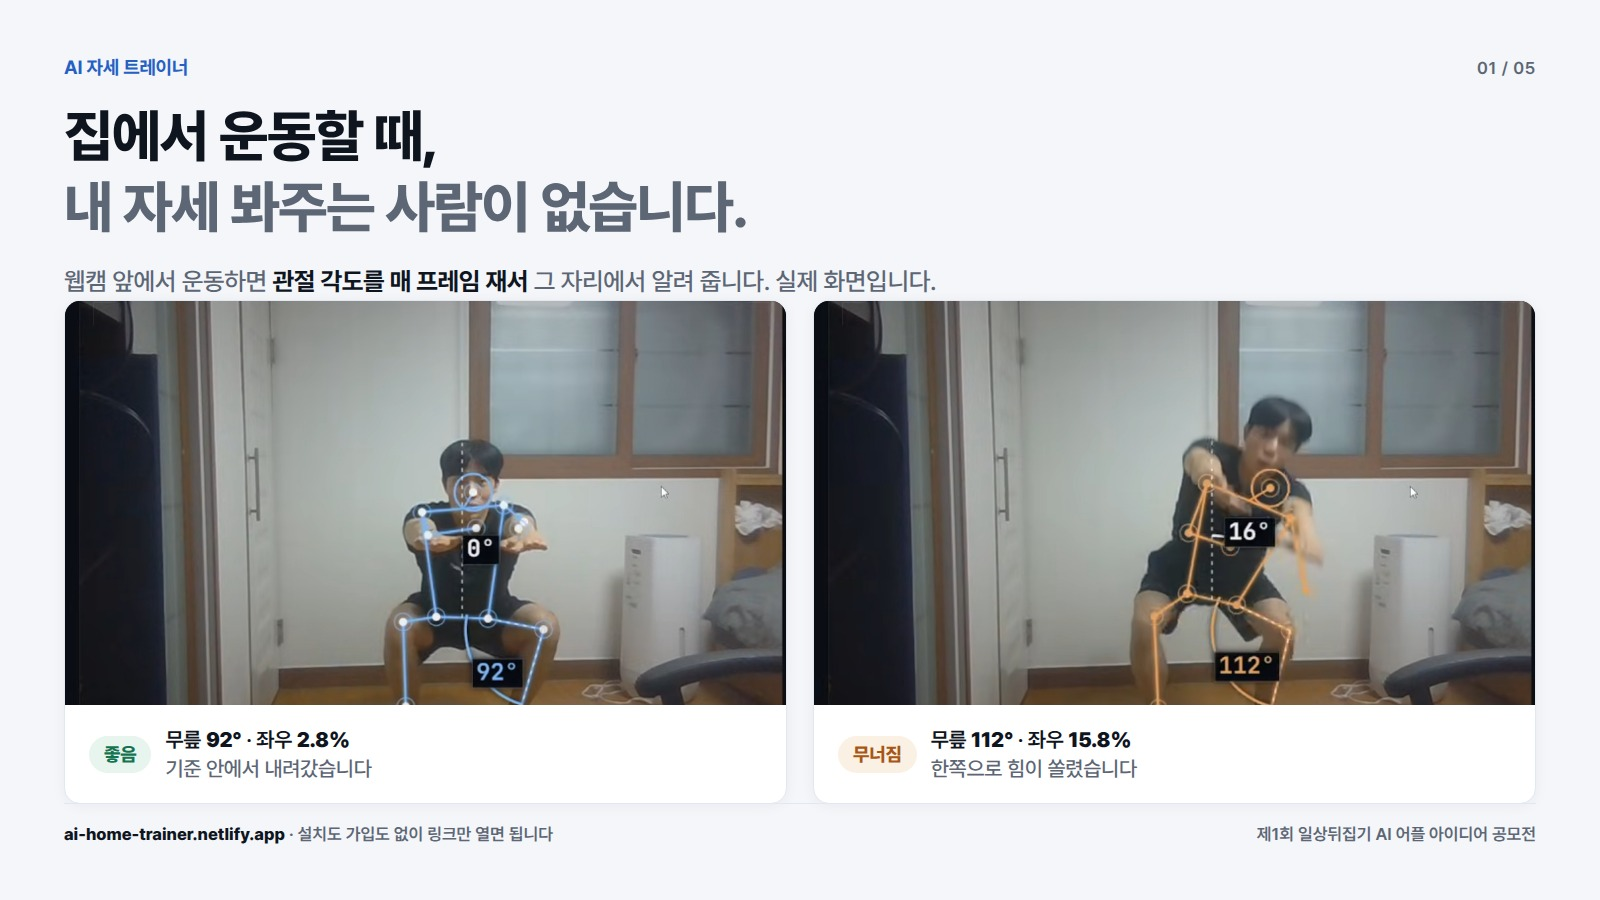
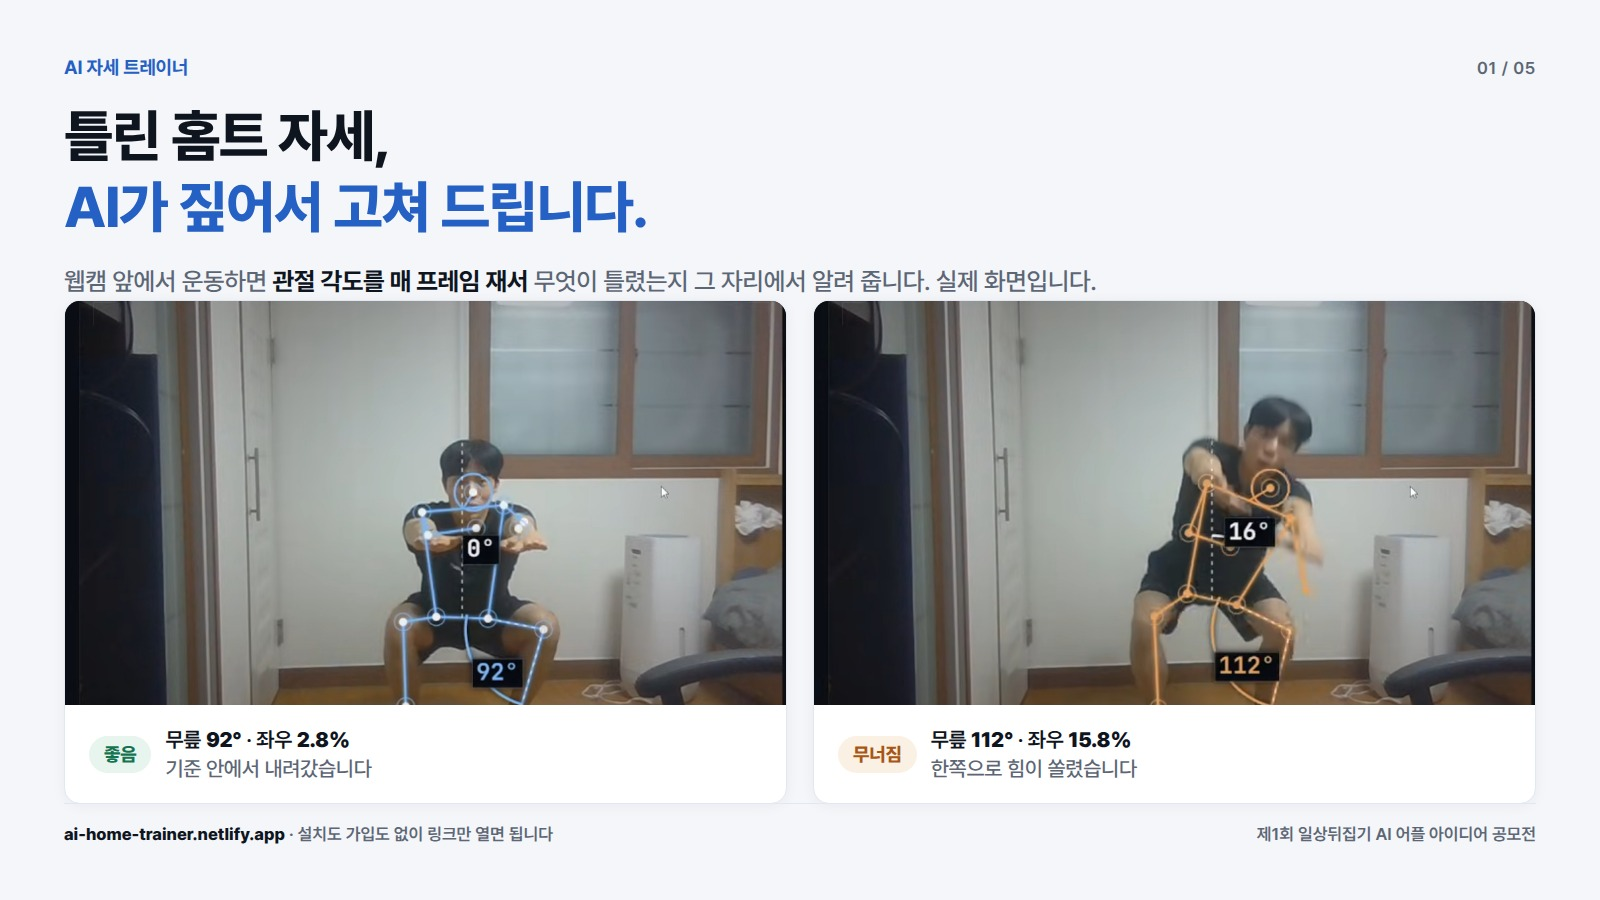
카피: 문제 서술에서 효익 서술로
"봐주는 사람이 없습니다"는 상황 설명이라 이 앱이 무엇을 해주는지가
전달되지 않았다. 사용자가 무엇을 얻는지를 먼저 말하도록 바꿨다.

- 소개서 1장 및 사이트 h1: "틀린 홈트 자세, AI가 짚어서 고쳐 드립니다"
  "짚어서"를 넣은 이유 — 이 앱은 자세를 대신 교정해 주지 않고
  무엇이 몇 도 틀렸는지 숫자로 알려 준다. 실제 동작과 어긋나지 않으면서
  효익은 그대로 전달된다.
- 소개서 2장: "정작 무너지는 구간은 아무도 못 봅니다"
  → "혼자 하면 틀린 줄도 모르고 계속하게 됩니다"
- 히어로 서브카피도 같은 방향으로 조정.

Changed region(s): [[0.0312, 0.1244, 0.6875, 0.3422]]

diff --git a/deck2.html b/deck2.html
@@ -70,8 +70,8 @@ h1 .a{color:var(--accent)}
 <!-- 1 -->
 <div class="page">
   <div class="eyebrow"><span class="l">AI 자세 트레이너</span><span class="r">01 / 05</span></div>
-  <h1>집에서 운동할 때,<br><span class="g">내 자세 봐주는 사람이 없습니다.</span></h1>
-  <p class="lead">웹캠 앞에서 운동하면 <b>관절 각도를 매 프레임 재서</b> 그 자리에서 알려 줍니다. 실제 화면입니다.</p>
+  <h1>틀린 홈트 자세,<br><span class="a">AI가 짚어서 고쳐 드립니다.</span></h1>
+  <p class="lead">웹캠 앞에서 운동하면 <b>관절 각도를 매 프레임 재서</b> 무엇이 틀렸는지 그 자리에서 알려 줍니다. 실제 화면입니다.</p>
   <div class="grow"><div class="duo">
     <div class="shot">
       <div class="im"><img src="live_ok.jpg" alt=""></div>
@@ -91,7 +91,7 @@ h1 .a{color:var(--accent)}
 <!-- 2 -->
 <div class="page">
   <div class="eyebrow"><span class="l">무엇이 문제인가</span><span class="r">02 / 05</span></div>
-  <h1>정작 무너지는 구간은<br><span class="a">아무도 못 봅니다.</span></h1>
+  <h1>혼자 하면 <span class="a">틀린 줄도</span><br>모르고 계속하게 됩니다.</h1>
   <p class="lead">자세가 무너지는 건 힘들어서 <b>거울 볼 여유가 없는 마지막 몇 회</b>입니다.
     확인이 가장 필요한 구간이 확인이 가장 안 되는 구간입니다.</p>
   <div class="grow"><div class="vs">

diff --git a/index.html b/index.html
@@ -446,10 +446,10 @@
   <div class="hero">
     <div class="herotext">
       <div class="eyebrow">일상뒤집기 · AI 어플 아이디어 공모전 출품작</div>
-      <h1><span style="color:var(--cyan)">AI 트레이너</span>가<br>당신의 자세를 대신 봐 줍니다.</h1>
+      <h1>틀린 홈트 자세,<br><span style="color:var(--cyan)">AI가 짚어서 고쳐 드립니다.</span></h1>
       <p class="sub">
         웹캠 앞에서 운동하면 무릎·상체·좌우 균형을 <b>매 프레임 각도로</b> 잽니다.
-        거울은 지금만 보여주지만, 이 페이지는 <b>자세가 무너진 순간</b>만 골라 사진으로 남깁니다.
+        무엇이 몇 도 틀렸는지 숫자로 짚어 주고, <b>자세가 무너진 순간</b>은 사진으로 남깁니다.
       </p>
       <div class="cta">
         <button class="btn" id="startBtn">카메라 켜고 측정 시작</button>
